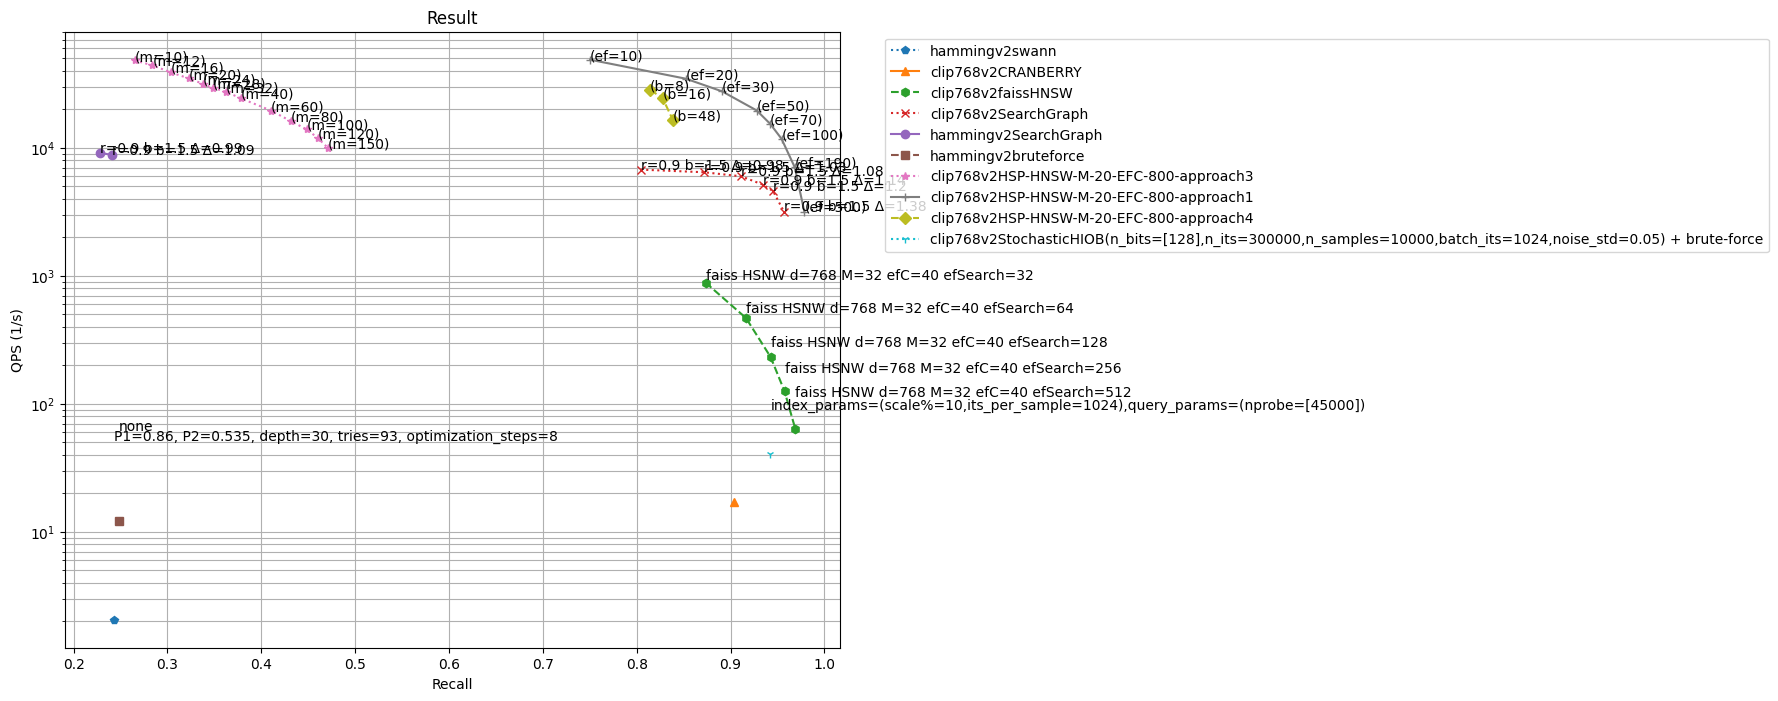
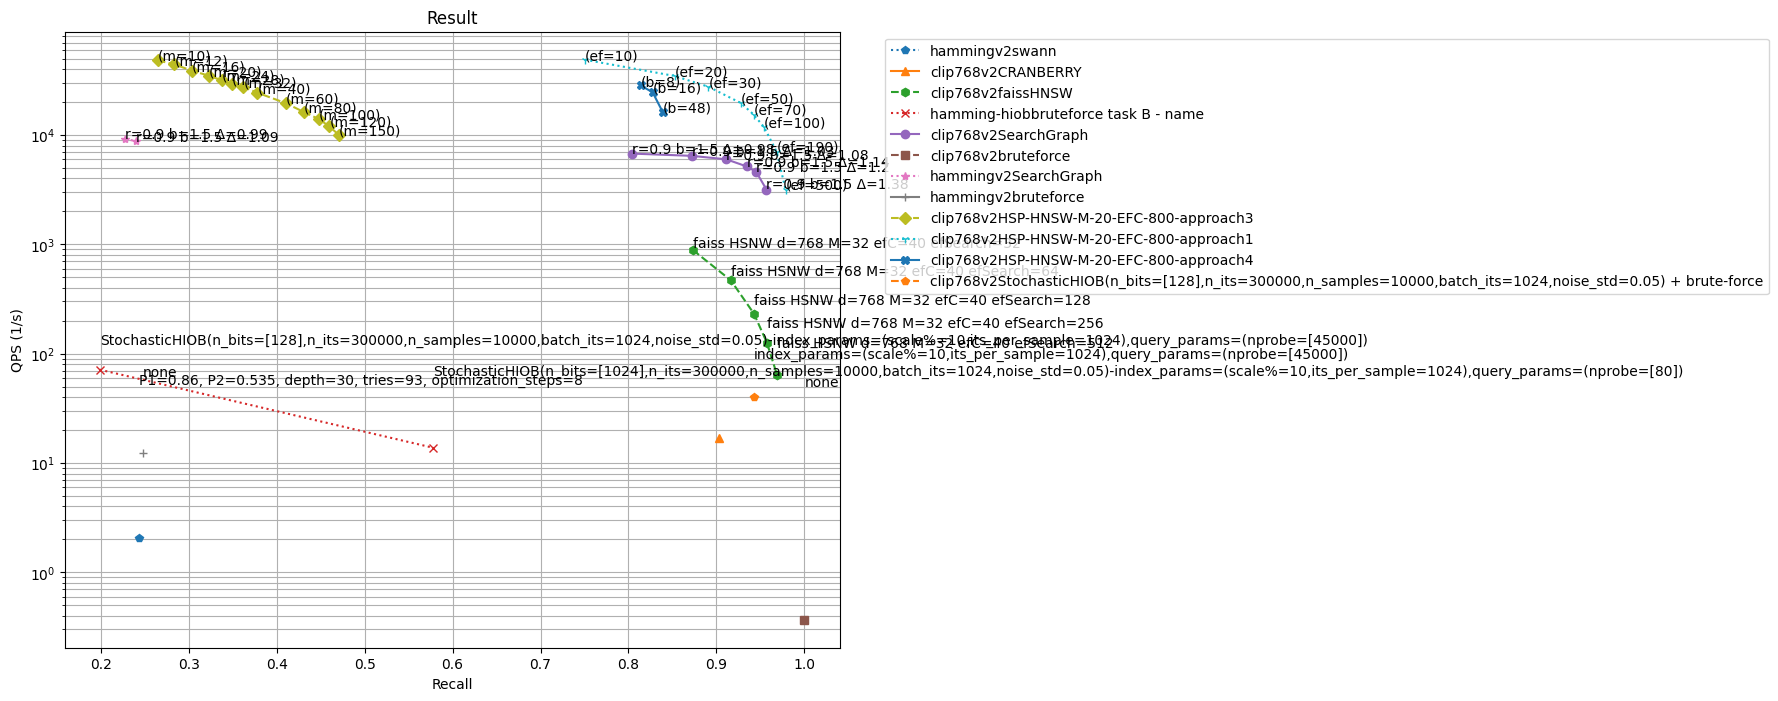
Updated results.

diff --git a/results/RESULTS.md b/results/RESULTS.md
@@ -43,6 +43,35 @@ CRANBERRY  | 100M  |   589.76
 SWANN* | 100M |  4866.21
 UTokyo | 100M  |  OOM
 
+
+# Task B
+
+## 10 Million
+
+| Team | #bits | Recall 
+| --- | --- | ---:|
+| HIOB | 1024 | 0.55
+| HIOB | 256 | 0.33
+| Baseline | 1024 | 0.24
+
+## 30 Million
+
+| Team | #bits | Recall 
+| --- | --- | ---:|
+| HIOB | 1024 | 0.57
+| HIOB | 256 | 0.24
+| Baseline | 1024 | 0.24
+
+## 100 Million
+
+| Team | #bits | Recall 
+| --- | --- | ---:|
+| HIOB | 1024 | 0.58
+| Baseline | 1024 | 0.25
+| HIOB | 256 | 0.20
+
+
+
 # Task C
 
 Indexing binary vectors. Bruteforce recall is around 0.24, we show the best performing parameters exceeding recall 0.22.
@@ -71,7 +100,3 @@ SWANN | 30M |  717.54
 BASELINE-SearchGraph | 100M | 1.09
 Bruteforce | 100M | 816.93
 SWANN | 100M |  3795.05
-
-# Notes
-
-- SWANN* works on the binary hamming embedding instead of the clip768 embedding
